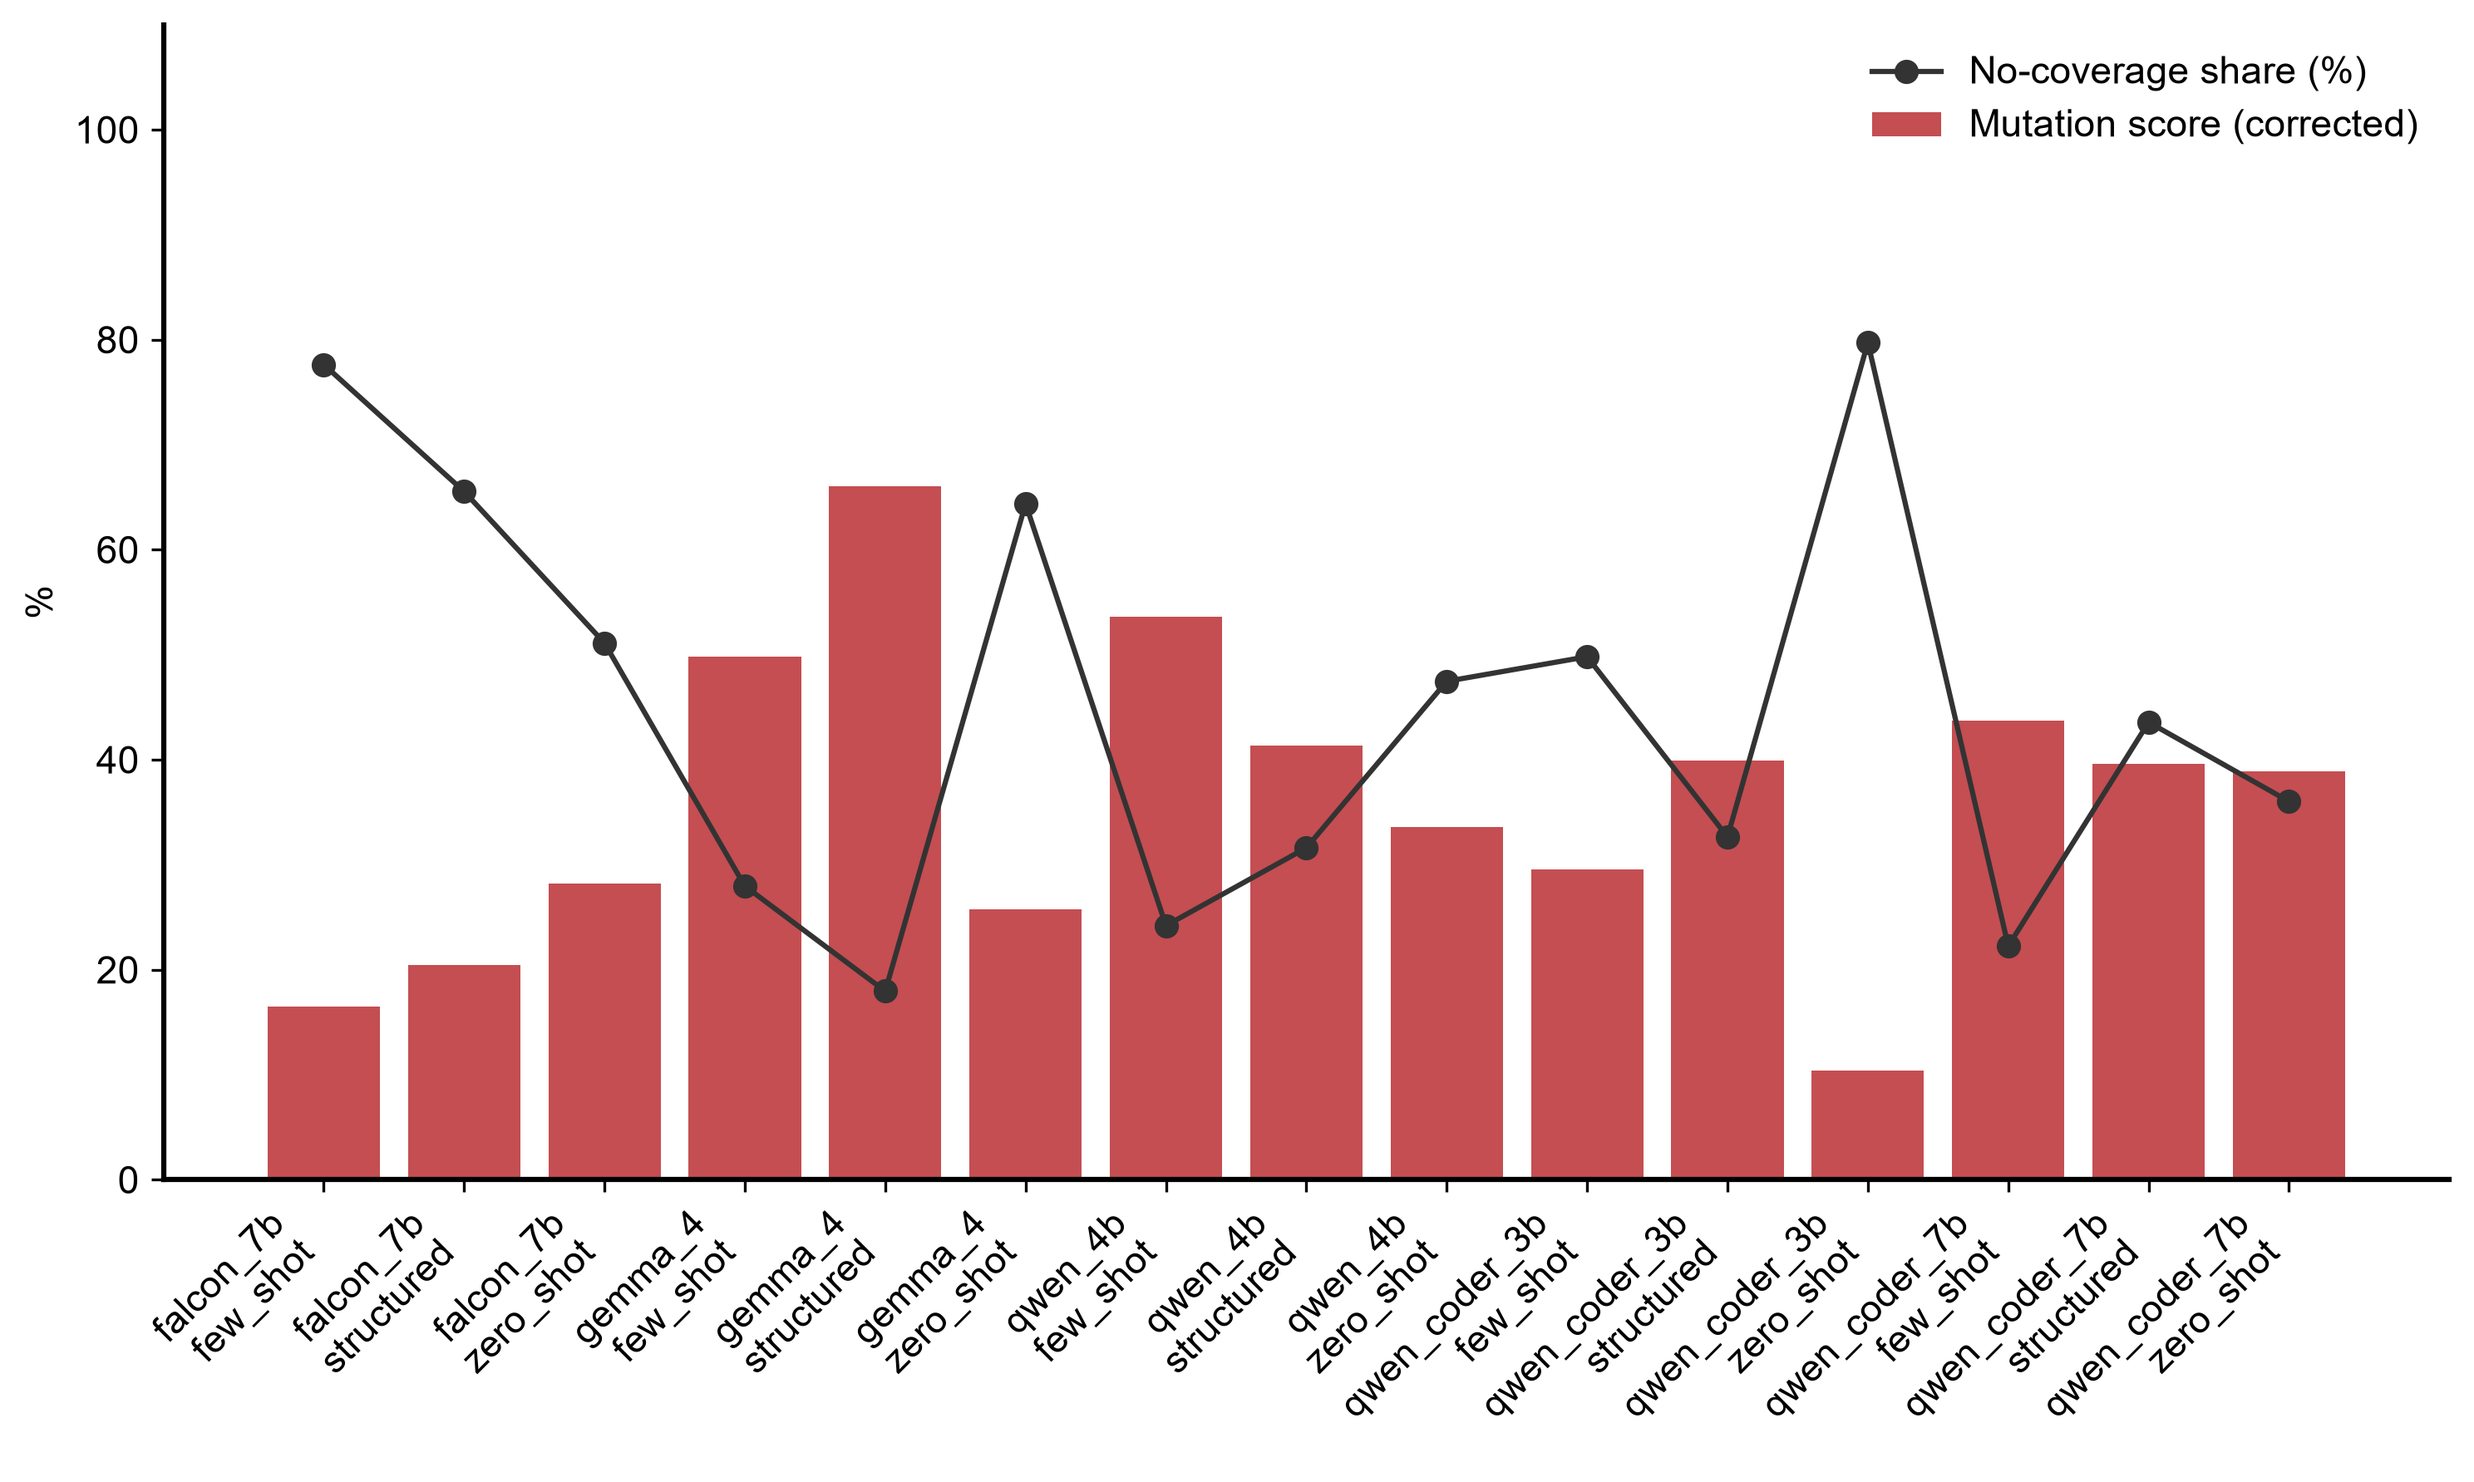
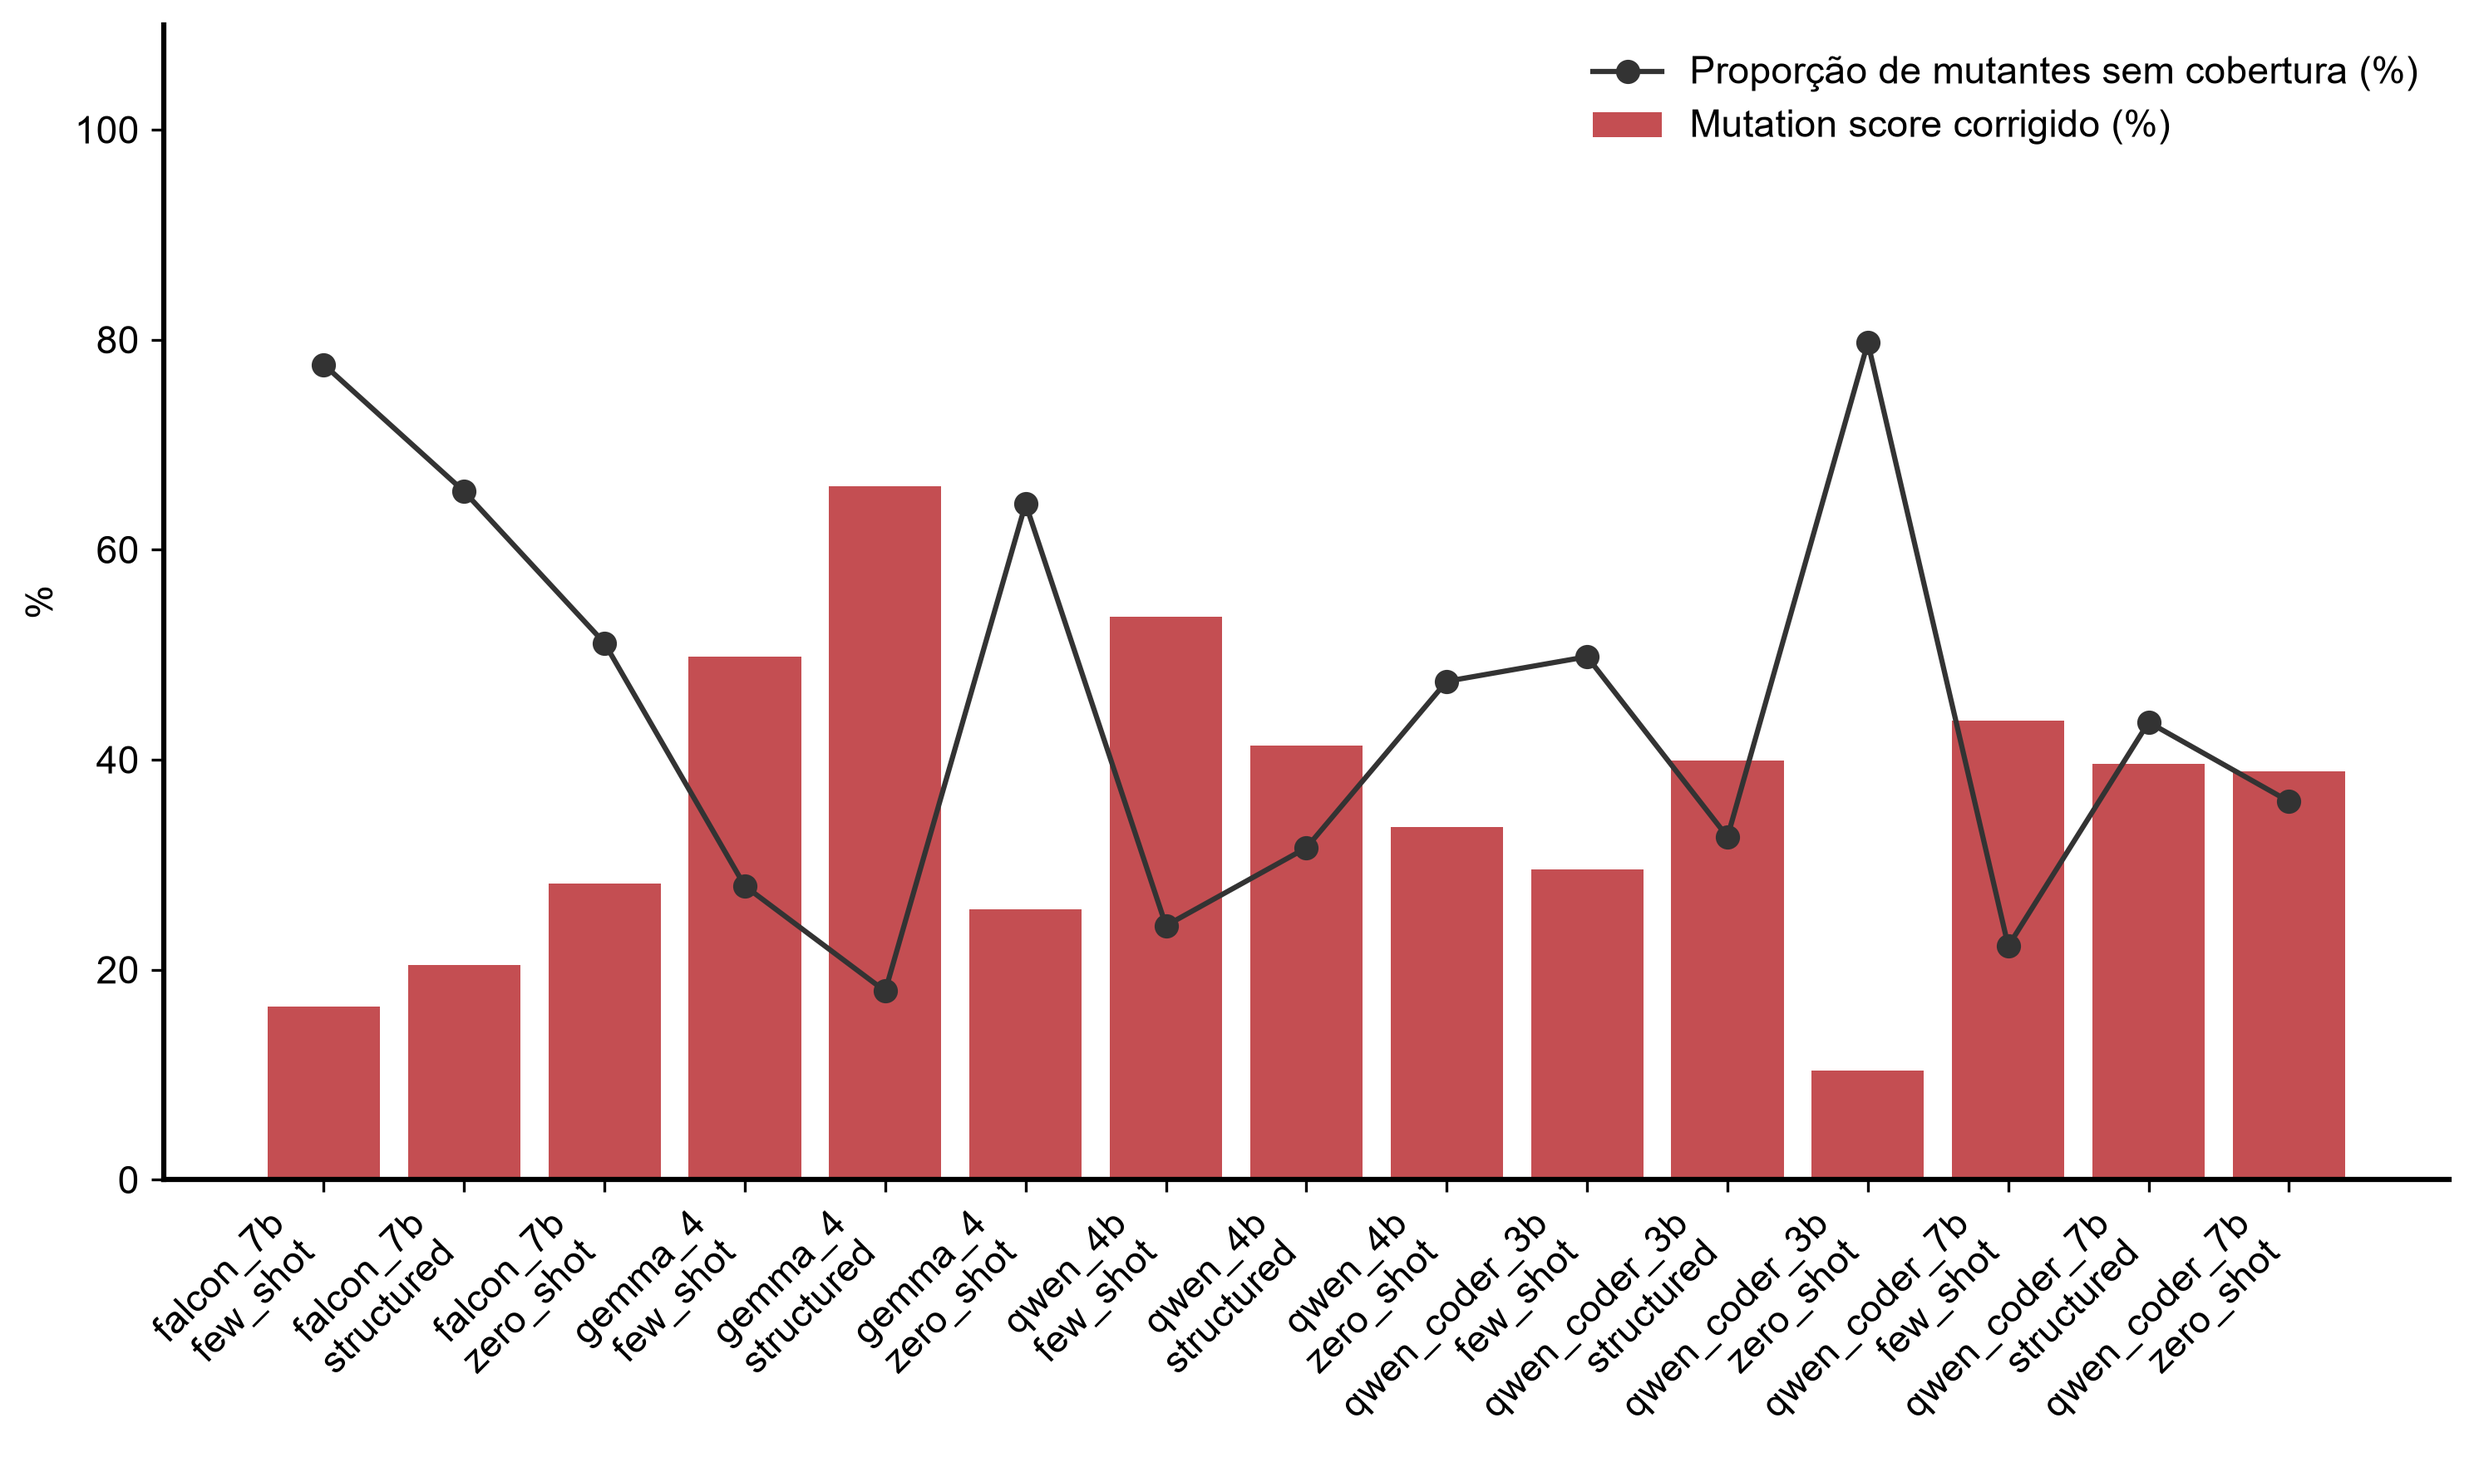
feat: flowcharts

Changed region(s): [[0.625, 0.0308, 0.9688, 0.0925]]

diff --git a/analysis/experiment_analysis.py b/analysis/experiment_analysis.py
@@ -700,9 +700,9 @@ def plot_smell_rates(df: pd.DataFrame, output_path: Path) -> None:
     ax.set_ylabel("Taxa (%) entre testes ativos")
     ax.set_ylim(0, max(100, float(use_df["assertion_roulette_rate"].max()) + 12))
     ax.legend()
-    for i, excluded in enumerate(use_df["unmeasurable_functions"]):
-        if excluded:
-            ax.annotate(f"{excluded} excl.", (i, 2), ha="center", fontsize=7, color="#666", rotation=90)
+    # for i, excluded in enumerate(use_df["unmeasurable_functions"]):
+    #     if excluded:
+    #         ax.annotate(f"{excluded} excl.", (i, 2), ha="center", fontsize=7, rotation=90)
     # plt.figtext(
     #     0.01, 0.01,
     #     "\"N excl.\" = observações totalmente skip-repaired (não mensuráveis), excluídas do "
@@ -954,9 +954,9 @@ def plot_mutation_score(df: pd.DataFrame, output_path: Path) -> None:
     summary = build_mutation_summary_by_model_strategy(df)
     fig, ax = plt.subplots(figsize=(10, 6))
     labels = [f"{row.model}\n{row.strategy}" for _, row in summary.iterrows()]
-    ax.bar(labels, summary["mutation_score_corrected"], color="#c44e52", label="Mutation score (corrected)")
+    ax.bar(labels, summary["mutation_score_corrected"], color="#c44e52", label="Mutation score corrigido (%)")
     ax.plot(labels, summary["no_coverage_share"], color="#333333", marker="o", linewidth=1.5,
-            label="No-coverage share (%)")
+            label="Proporção de mutantes sem cobertura (%)")
     ax.set_ylabel("%")
     ax.set_ylim(0, 110)
     ax.legend()
